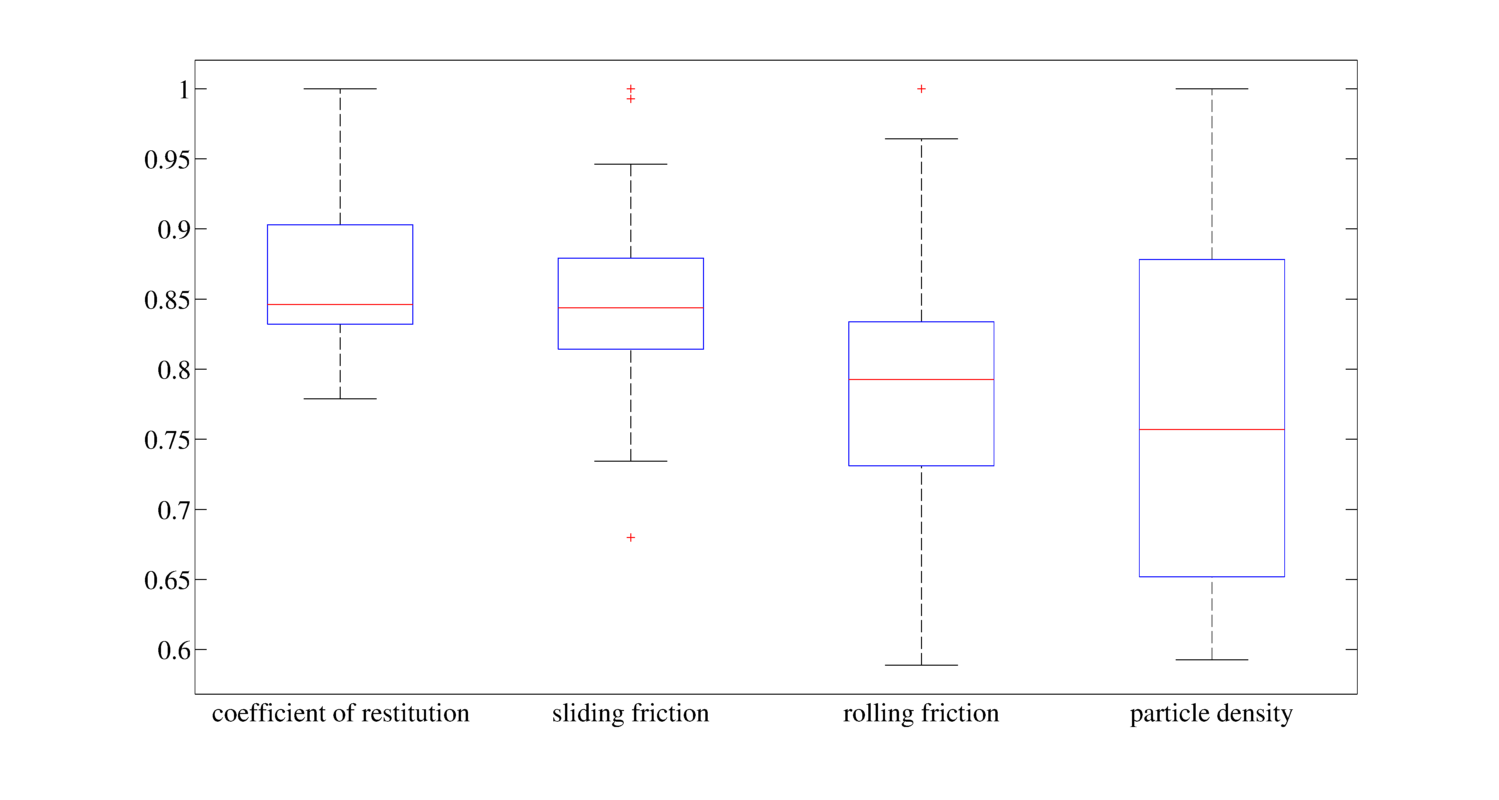
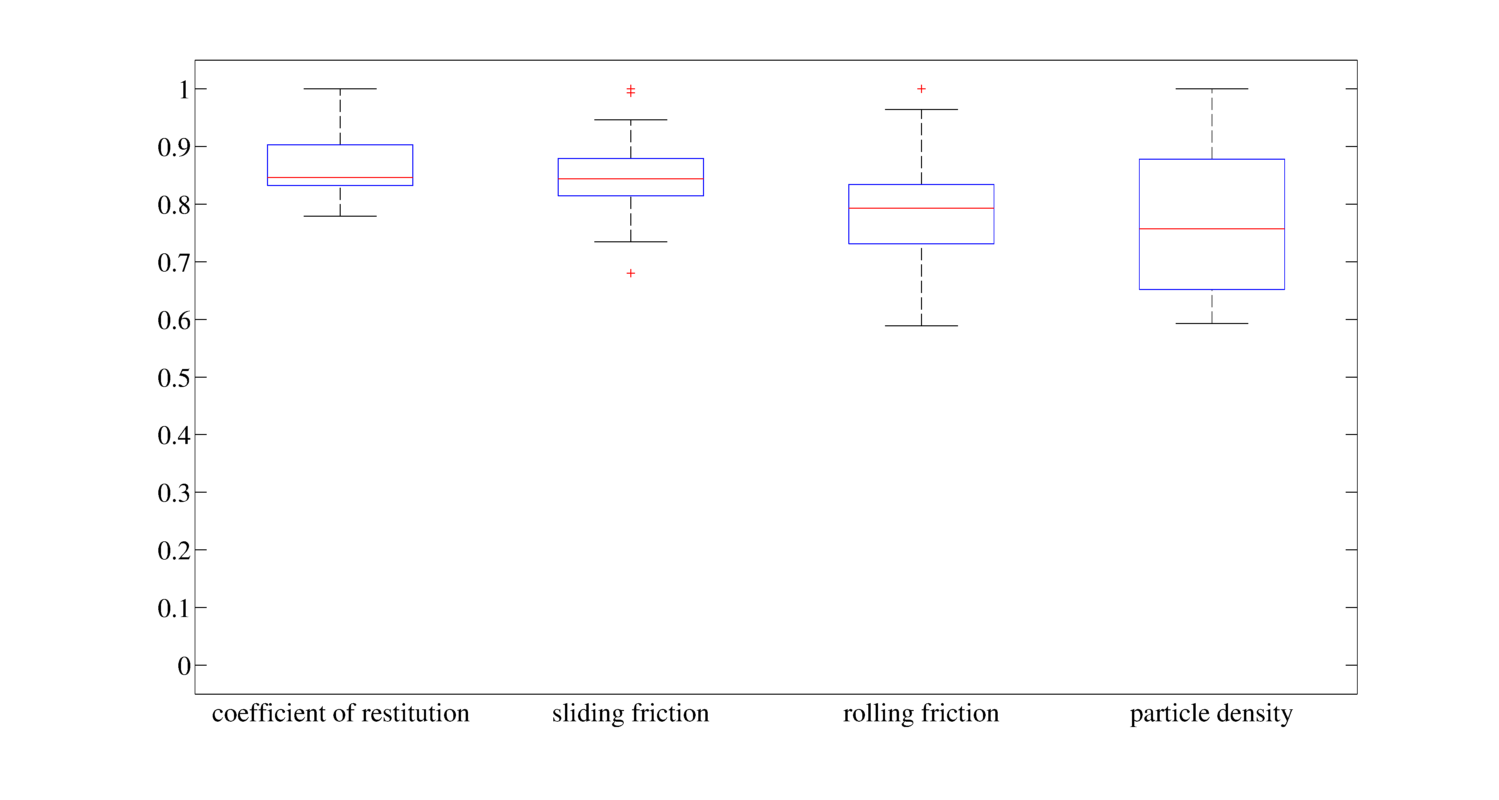
new images for merge box plots

diff --git a/thesisTemplate/intro/abstract.tex b/thesisTemplate/intro/abstract.tex
@@ -10,20 +10,20 @@ particles by means of numerical simulations, laboratory experiments,
 and Artificial Neural Networks (ANNs).
 
 Particle-particle contact laws and particles size distributions determine the
-macroscopic simulation results in Discrete Element Method (DEM). 
+macroscopic results in Discrete Element Method (DEM) simulations. 
 Commonly, contact laws depend on semi-empirical parameters which 
 are difficult to obtain by direct microscopic measurements. 
 
 To clarify this aspect, we present the related elements of the DEM
 theory.
 The ANN theory is also introduced to demonstrate ANN effectiveness towards
-generalization.
+the solution of inverse problems with non linear regression.
 
 Later, we describe the series of small scale DEM simulations with different sets
 of particle-based simulation parameters and particle distributions, which we
 performed.
 The macroscopic results of these simulations were used to train dedicated
-feed-forward ANNs by backward propagation reinforcement.
+feed-forward ANNs by the backward propagation reinforcement algorithm.
 Concurrently, the bulk behaviours of raw particles were characterized by means
 of macroscopic laboratory experiments. These particles were those commonly used
 by metallurgical industries (i.e., coke, iron ore, sinter, and limestone).
@@ -37,5 +37,5 @@ By this method, a comprehensive database was established, relating particle-base
 simulation parameters to macroscopic ensemble output.
 If compared to an experiment of a specific granular material, this database identifies 
 valid sets of DEM parameters which lead to the same macroscopic results as observed in the experiments.
-Finally, we applied this method of DEM parameter identification to two industrial
-scale processes of steel production.
+Finally, we applied the results of this method of DEM parameter identification
+to two industrial scale processes of steel production.

diff --git a/thesisTemplate/images/222tileplotssintercoarse.tex b/thesisTemplate/images/222tileplotssintercoarse.tex
@@ -14,6 +14,6 @@
 	  \label{fig:204TileMixsintercoarse_31}
   }
   \\  
-  \caption{Density plot plots limestone coarse.}
+  \caption{Density plot plots sinter coarse.}
   \label{fig:222tileplotssintercoarse}
 \end{figure}
